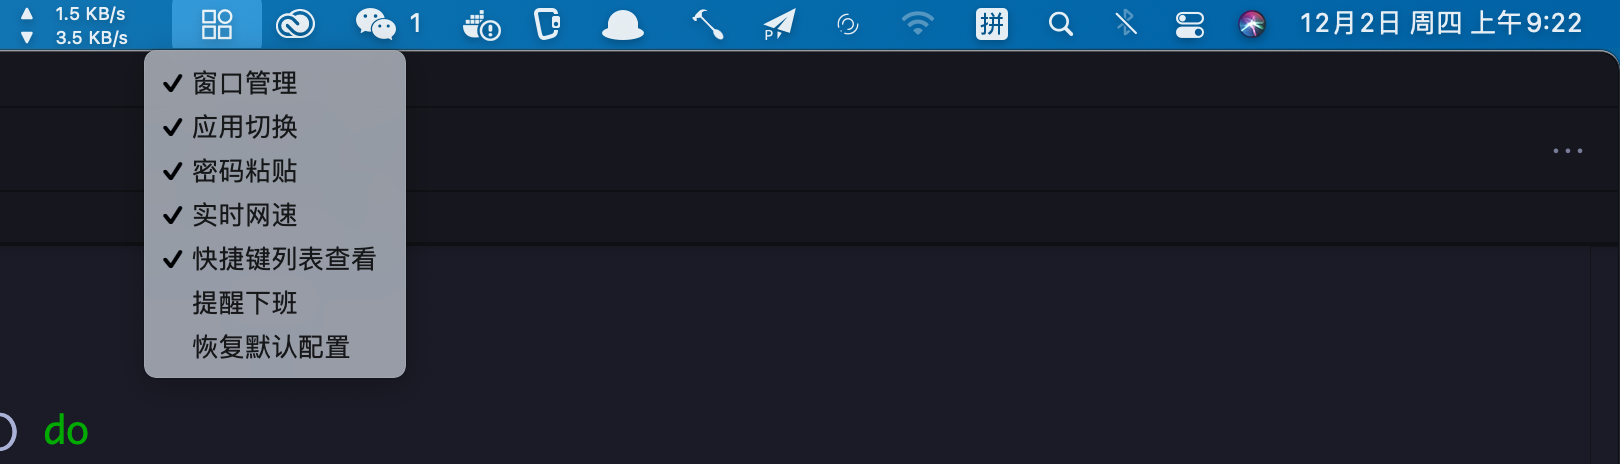
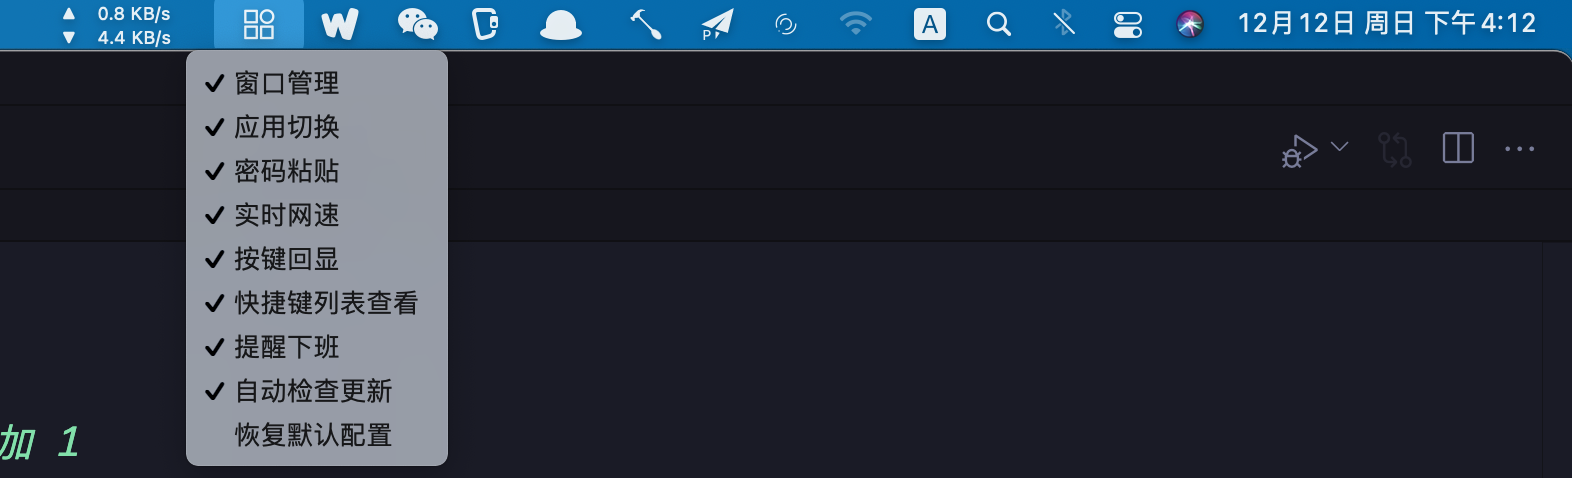
docs: 更新 README 关于按键回显功能的说明

diff --git a/README.md b/README.md
@@ -41,7 +41,7 @@ git pull origin main
 ## 本工程提供功能
 ### 窗口移动
 
-替代 Magnet 进行窗口移动
+替代 [Magnet](https://apps.apple.com/us/app/magnet/id441258766?mt=12) 进行窗口移动
 
 ![](./images/window.png)
 
@@ -51,7 +51,7 @@ git pull origin main
 
 ### 实时网速显示
 
-替代 NetWorker Pro 实时显示网速（每两秒刷新一次）
+替代 [NetWorker Pro](https://apps.apple.com/us/app/networker-pro/id1163602886?mt=12) 实时显示网速（每两秒刷新一次）
 
 ![](./images/network.png)
 
@@ -60,6 +60,19 @@ git pull origin main
 解决某些网站禁止粘贴密码、SSH 登陆需要手动输入密码等问题。
 首先使用 ⌘C 复制密码，然后在密码输入框内，按 ⌃⌘V 即可将密码粘贴到输入框内。
 原理为读取剪贴板最新一条记录，针对读取到的每一个字符，模拟按键事件。
+
+### 按键回显
+
+替代 [KeyCastr](https://github.com/keycastr/keycastr)
+
+![](./images/keystroke-visualizer.gif)
+
+注：目前暂且实现了简单的按键回显，和 KeyCastr 相比在功能上仍相差甚远，如：
+- 不支持多画布
+- 长时间未接收到按键事件，不支持自动淡出画布（增加计时器可以做到，实际这部分代码也已经实现，但 Hammerspoon 提供的计时器总会无故挂掉，所以暂时删除了该功能）
+- 画布不支持拖拽
+- ...
+感兴趣的同学欢迎提出实现思路，或直接贡献代码（不太懂 Objective-C，KeyCastr 的实现源码个人看不太懂）
 
 ### 快捷键列表查看
 
@@ -181,3 +194,4 @@ osascript -e 'id of app "Name of App"'
 - [Easily see any app’s bundle identifier](https://robservatory.com/easily-see-any-apps-bundle-identifier/)
 - [GitHub - wangshub/hammerspoon-config](https://github.com/wangshub/hammerspoon-config)
 - [GitHub - ashfinal/awesome-hammerspoon](https://github.com/ashfinal/awesome-hammerspoon)
+- [Is it possible to show what a keycode being pressed is?](https://github.com/Hammerspoon/hammerspoon/issues/2937)
